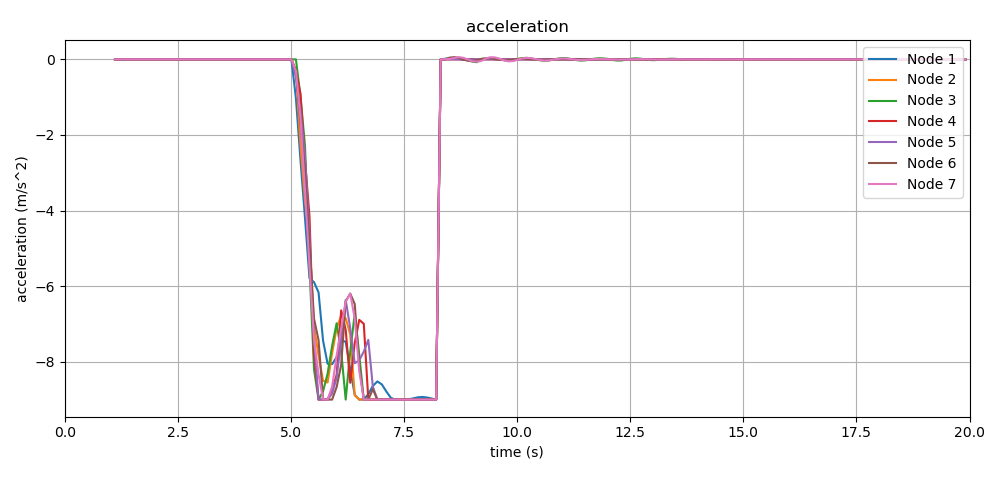
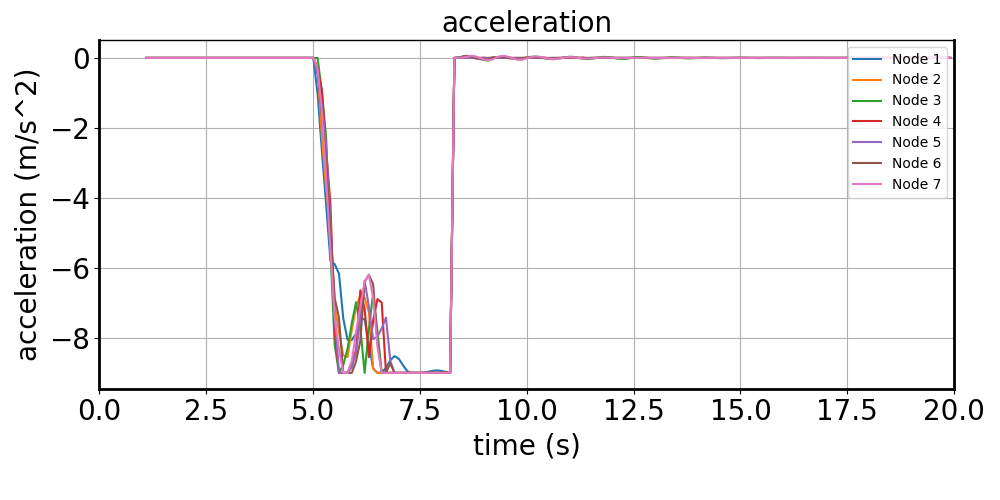
send it

diff --git a/CrashTest.py b/CrashTest.py
@@ -345,8 +345,18 @@ def plot(enVar, showplot):
         if ymax != 0 and ymin != 0:
             ax.set_ylim([ymin, ymax])
         ax.grid(True)
-        ax.set_xlabel("time (s)")
-        ax.set_ylabel(value_label)
+        ax.set_xlabel("time (s)", fontsize = 20)
+        ax.set_ylabel(value_label, fontsize=20)
+
+        plt.tick_params(axis='x', labelsize=20)
+        plt.tick_params(axis='y', labelsize=20)
+
+        # Dicke der Spines (x- und y-Achsenlinien) anpassen
+        ax = plt.gca()  # Gibt das aktuelle Axes-Objekt zurück
+        ax.spines['top'].set_linewidth(1)    # Dicke der oberen Linie anpassen
+        ax.spines['bottom'].set_linewidth(2) # Dicke der unteren Linie anpassen
+        ax.spines['left'].set_linewidth(2)   # Dicke der linken Linie anpassen
+        ax.spines['right'].set_linewidth(2)  # Dicke der rechten Linie anpassen
            
         # Anzeigen des Titels für jeden Graphen
         #fig.suptitle(value)
@@ -358,7 +368,7 @@ def plot(enVar, showplot):
         # Anpassen des Layouts, um Platz für die Legende zu schaffen
         plt.tight_layout(rect=[0, 0.05, 1, 0.95])
 
-        plt.title(value)
+        plt.title(value, fontsize = 20)
             
         # Anzeigen des Graphen
         if save_path:
